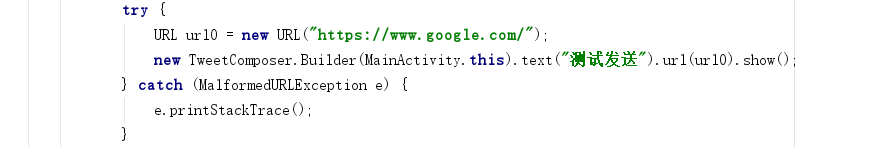
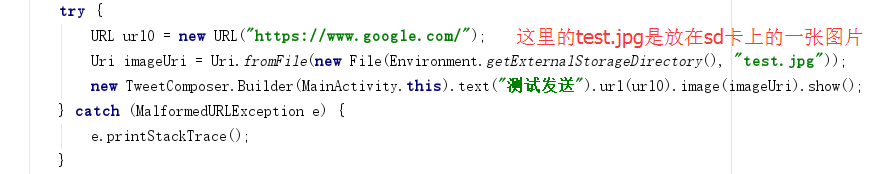
发推添加图片

diff --git a/app/src/main/java/com/ly/avid/twitterdemo/MainActivity.java b/app/src/main/java/com/ly/avid/twitterdemo/MainActivity.java
@@ -1,5 +1,7 @@
 package com.ly.avid.twitterdemo;
 
+import android.net.Uri;
+import android.os.Environment;
 import android.support.v7.app.AppCompatActivity;
 import android.os.Bundle;
 import android.view.View;
@@ -8,6 +10,8 @@ import com.twitter.sdk.android.core.TwitterAuthConfig;
 import com.twitter.sdk.android.tweetcomposer.TweetComposer;
 
 import io.fabric.sdk.android.Fabric;
+
+import java.io.File;
 import java.net.MalformedURLException;
 import java.net.URL;
 
@@ -30,7 +34,8 @@ public class MainActivity extends AppCompatActivity {
             public void onClick(View view) {
                 try {
                     URL url0 = new URL("https://www.google.com/");
-                    new TweetComposer.Builder(MainActivity.this).text("测试发送").url(url0).show();
+                    Uri imageUri = Uri.fromFile(new File(Environment.getExternalStorageDirectory(), "test.jpg"));
+                    new TweetComposer.Builder(MainActivity.this).text("测试发送").url(url0).image(imageUri).show();
                 } catch (MalformedURLException e) {
                     e.printStackTrace();
                 }
